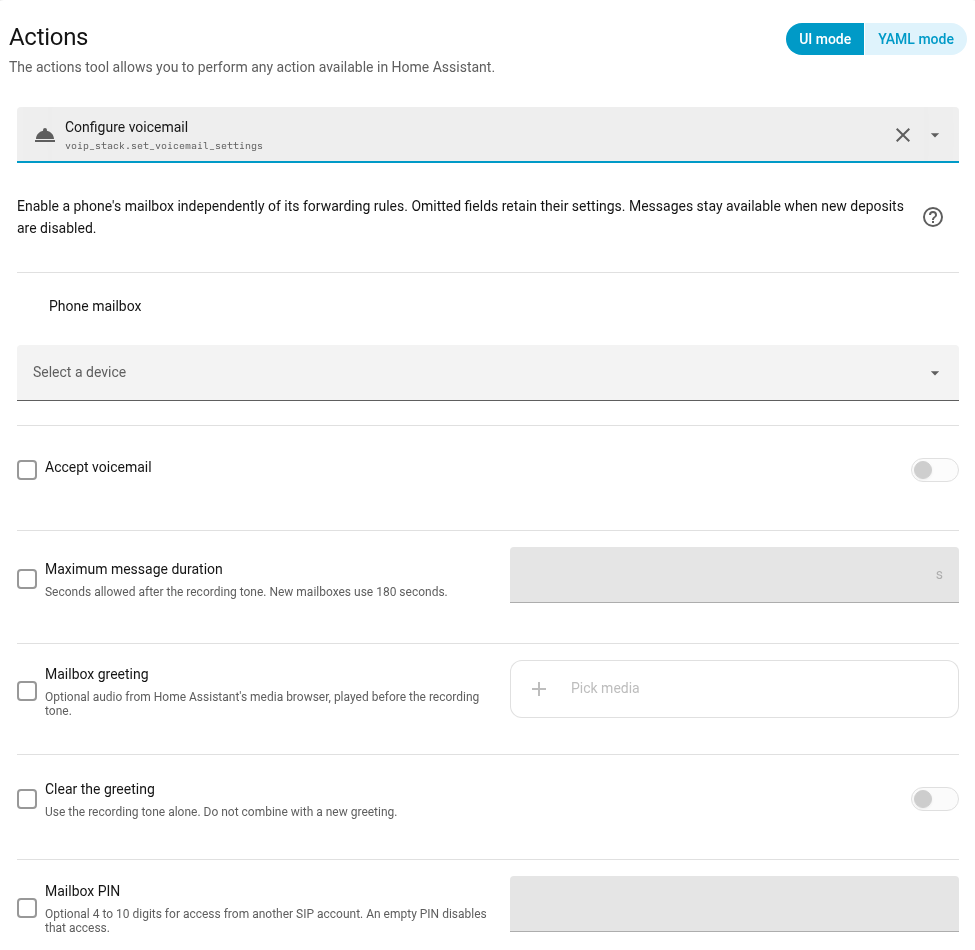
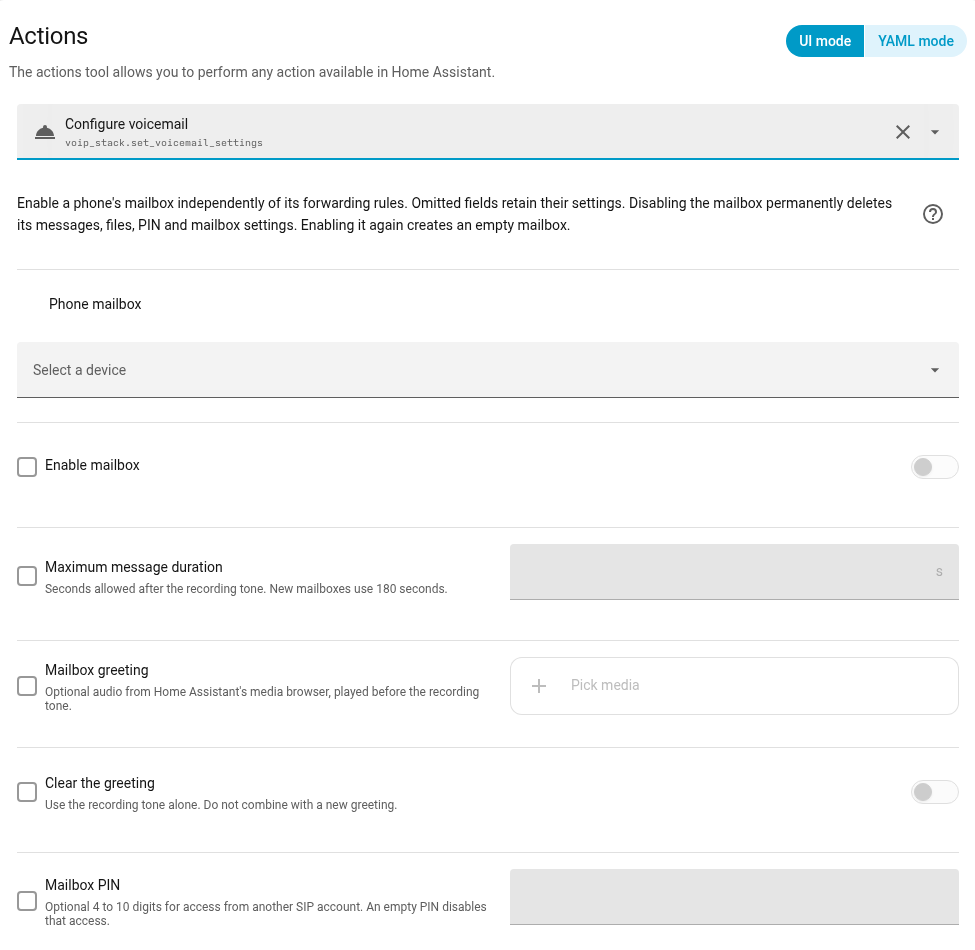
docs: align mailbox lifecycle and current media capabilities

diff --git a/docs/ARCHITECTURE.md b/docs/ARCHITECTURE.md
@@ -27,7 +27,7 @@ Home Assistant is more than a card backend:
 - HA is the central phonebook/dial-plan publisher;
 - HA is a SIP router/B2BUA for logical names, numbers, bridge requests and
   transport boundaries;
-- HA can optionally register one provider/PBX trunk;
+- HA supports independently configured provider/PBX trunks, registered or static;
 - HA can optionally act as a local registrar for standard SIP endpoints such as
   Zoiper, Linphone, baresip or pjsua;
 - HA can optionally expose one native Assist pipeline as a local phonebook
@@ -76,9 +76,8 @@ second user-selectable identity and is never stored by new card configuration.
 
 ### HA runtime ownership model
 
-The PBX ownership core is built alongside the existing SIP dispatcher as a
-migration seam; it is not a second router and a call never passes through two
-independent dial plans.
+The SIP dispatcher resolves each call through one dial plan. The PBX session
+core owns its participants, media resources and termination.
 
 - `SipEndpointRuntime` owns endpoint-wide components such as listeners,
   registrar, trunk and conference manager.
@@ -176,9 +175,10 @@ of bypassing an intervening proxy.
 SDP offer/answer negotiates RTP. RTP media is always UDP, even when SIP
 signaling uses TCP.
 
-ESP devices are PCM-only endpoints. The supported ESP profile is linear PCM
-with network byte order on RTP; incompatible SDP receives `488 Not Acceptable
-Here` or the equivalent terminal reason.
+ESP firmware selects PCM or Opus at compile time. FULL and P4 profiles use
+linear PCM with network byte order on RTP; maintained ESP32-S3 VoIP-only
+profiles can use Opus. Unsupported media receives `488 Not Acceptable Here`
+or the equivalent terminal reason. See the [ESP media profile](voip_profile.md#sdp-and-rtp).
 
 HA can accept richer media on softphone/trunk legs when it has a bidirectional
 converter for the selected codec. Optional codecs are capability-gated and are
@@ -231,7 +231,7 @@ or SBC boundary.
 
 ### Telephone applications and voicemail
 
-On the PBX development branch, Automation and voicemail use
+Automation and voicemail use
 `LocalCallApplication` for answer and media setup. The existing
 `EndpointCallSession` owns their tasks, RTP reservation and termination. Changing
 from an announcement to voicemail transfers that application's control within

diff --git a/docs/voip_profile.md b/docs/voip_profile.md
@@ -148,7 +148,11 @@ capability and security boundaries.
 
 ## SDP and RTP
 
-ESP media is PCM-only.
+PCM and Opus are separate compile-time firmware choices. FULL and P4 profiles
+use PCM. Maintained ESP32-S3 VoIP-only profiles can use Opus, advertised as
+`opus/48000/2` even when the captured audio is mono. The RTP clock is 48 kHz.
+
+For PCM profiles:
 
 - Mandatory: RTP `L16`
 - Optional: RTP `L24`, only when packed as RTP L24
@@ -162,12 +166,13 @@ ESP must convert at the RTP boundary:
 - internal `S16LE` to RTP `L16` network byte order
 - internal `S24LE_IN_S32` to packed RTP `L24` network byte order
 
-Compressed codecs are not implemented on ESP. If a SIP softphone offers only
-compressed codecs such as PCMU, PCMA, Opus, Speex, GSM or G.722, ESP returns
-`488 Not Acceptable Here`.
+ESP does not implement PCMU, PCMA, Speex, GSM or G.722. A direct SIP peer must
+offer a format supported by the selected firmware. A call through HA may use
+its transcoding bridge instead. See the [component codec matrix](https://github.com/n-IA-hane/esphome-voip-stack#codec-profiles-and-media-route).
 
-ESP devices never advertise or decode video. The optional HA softphone video
-path is not routed into an ESP, ring group, conference room or Assist pipeline.
+Audio-only profiles do not advertise video. Supported P4 video profiles add
+their explicitly configured JPEG or H.264 paths; video is not automatically
+enabled for other boards. See [SIP video](SIP_VIDEO.md).
 
 ## Roster
 
@@ -181,8 +186,8 @@ Direct calls use SIP URIs such as:
 - `sip:Salotto@192.168.1.52:5060;transport=udp`
 
 Phone numbers and unresolved names route through the Home Assistant SIP bridge when
-configured. If an optional HA trunk is configured and registered, unresolved
-external targets can route through that trunk. Missing endpoint metadata must
+configured. Unresolved external targets can use the selected available HA
+trunk, either registered or static. Missing endpoint metadata must
 not invent a direct SIP route.
 
 Inbound trunk calls can use RFC2833/telephone-event DTMF digits as local

diff --git a/docs/TESTING_AND_DEBUG.md b/docs/TESTING_AND_DEBUG.md
@@ -21,8 +21,8 @@ HA integration tests with `./scripts/test_suite.sh ha`; that mode selects
 `../ha-voip-lab/.venv/bin/python`, or the interpreter supplied through
 `HA_PYTHON`. Do not invoke HA test modules with the repository `.venv`.
 
-The complete local gate also runs Ruff and parses every shipped JavaScript
-module:
+CI checks Python with Ruff. The complete local gate also parses every shipped
+JavaScript module:
 
 ```bash
 ./.venv/bin/ruff check custom_components scripts tests
@@ -42,10 +42,17 @@ local component checkouts for candidate firmware builds.
 
 The complete plan includes `software-full`, the real Home Assistant runtime,
 coverage, mutation, isolated peers, a real browser, firmware compilation and
-the selected S3/P4 hardware jobs. The maintained YAML files remain readable
-and reference the four `dev` branches. Test operators must record the resolved
-commits with the resulting evidence: a green CI run is not a physical-device
-qualification.
+the selected S3/P4 hardware jobs. Keep published references in maintained YAMLs
+unchanged and create a disposable local-source variant for candidate builds.
+Test operators must record the resolved commits with the resulting evidence:
+a green CI run is not a physical-device qualification.
+
+The browser startup regression delays worklet downloads in real Chromium and
+checks the first rendered samples after preparation, using silent virtual
+devices. A separate SIP/UDP test checks that initial PCMU frames survive an
+80 ms browser-readiness handshake. These checks cover frontend preparation and
+the RTP/WebSocket boundary; they do not qualify a physical phone's audio route
+or promise lossless playback after an arbitrarily long browser suspension.
 
 This software and compile gate still does not claim physical interoperability.
 A release candidate also needs the applicable live browser, SIP peer and ESP

diff --git a/docs/DEPLOYMENT_GUIDE.md b/docs/DEPLOYMENT_GUIDE.md
@@ -277,13 +277,14 @@ Direct mode routes the incoming call without this digit-collection step.
 
 ## Media
 
-ESP accepts compatible PCM SDP only. Unsupported codecs or oversized/unsupported
-formats must receive a SIP failure such as `488 Not Acceptable Here`.
+ESP firmware accepts the codecs compiled into its profile: PCM for FULL/P4,
+or optional Opus for ESP32-S3 VoIP-only. Unsupported codecs or oversized formats
+receive a SIP failure such as `488 Not Acceptable Here`.
 
 HA can bridge and resample between supported formats. Trunk/softphone legs may
 negotiate Opus, G.722, PCMA or PCMU when the HA runtime provides the required
 codec in both directions; optional codecs are not advertised when unavailable.
-G.722 exists only on the HA/standard-SIP leg: ESP legs remain PCM-only and keep
-their native quality. HA keeps the best negotiated quality per leg when
+G.722 exists only on the HA/standard-SIP leg; ESP legs use their configured
+PCM or Opus profile. HA keeps the best negotiated quality per leg when
 conversion is available. If a conversion cannot be built, HA terminates the
 setup with `media_incompatible`.

diff --git a/docs/VOICEMAIL.md b/docs/VOICEMAIL.md
@@ -38,10 +38,15 @@ uses HA's media picker; without one, the caller hears a recording tone.
 ![Configure a phone mailbox using named GUI fields](images/voicemail-settings-action.png)
 
 In this action, select the phone in **Phone mailbox**, enable the optional
-**Accept voicemail** field and turn its switch on. The checkboxes beside optional
+**Enable mailbox** field and turn its switch on. The checkboxes beside optional
 fields mean "change this setting"; leaving one unchecked preserves its current
 value. Choose greeting media and a message duration only if you want to change
 those settings. The screenshot is an unsubmitted form, not an active mailbox.
+
+Turning **Enable mailbox** off permanently removes that phone's mailbox,
+messages, files, PIN and mailbox settings. Turning it on again creates an empty
+mailbox. This also applies when changing the setting through an HA automation.
+It does not remove other phones' messages or separate conversation recordings.
 
 Enabling a mailbox does not enable forwarding. In the phone card's
 **Options > Call routing** section,

diff --git a/docs/SIP_TRUNK.md b/docs/SIP_TRUNK.md
@@ -344,10 +344,11 @@ mode. Automation routing stays off until explicitly enabled.
 ## Media
 
 The provider leg and local leg are separate SIP dialogs. HA bridges RTP between
-them with the same relay/resampler used for local HA bridge calls. ESP devices
-remain PCM-only and reject unsupported media with standard SIP errors. HA trunk
-and softphone legs may accept common SIP codecs such as Opus, G.722, PCMA or PCMU,
-then convert toward ESP PCM when the route requires it.
+them with the same relay/resampler used for local HA bridge calls. ESP firmware
+uses PCM or compile-time Opus according to its profile. HA trunk and softphone
+legs may accept common SIP codecs such as Opus, G.722, PCMA or PCMU, then convert
+toward the negotiated ESP format when the route requires it. Unsupported media
+is rejected with standard SIP errors.
 
 RTP packet duration is treated as a negotiated target, not an assumption about
 every received datagram. When the codec, sample rate, channel count and PCM

diff --git a/docs/BREAKING_CHANGES.md b/docs/BREAKING_CHANGES.md
@@ -4,6 +4,16 @@ Follow the entries between your installed version and the version you are
 upgrading to. Each section describes the migration for that release.
 For a fresh installation, use the [deployment guide](DEPLOYMENT_GUIDE.md).
 
+## 2026.10.3-dev: disabling a phone's mailbox deletes it
+
+**Enable mailbox** now controls whether that phone has a mailbox. Explicitly
+turning it off from the card, phone configuration or `set_voicemail_settings`
+action permanently deletes its messages, files, PIN and mailbox settings.
+Turning it on again creates an empty mailbox. Omitted action fields keep their
+current values. Updating, restarting or taking a phone offline does not delete
+mailboxes, including mailboxes disabled by an older build. Separate conversation
+recordings and other phones' mailboxes are preserved.
+
 ## PBX development branch: separate SIP trunk entries
 
 The updated `v2026.10.3-dev` preview changes where trunks are configured.

diff --git a/CHANGELOG.md b/CHANGELOG.md
@@ -4,6 +4,19 @@
 
 Development preview with changes since stable 2026.10.1.
 
+### 🔧 Storage and configuration corrections
+
+- Release completed recording resources even when the final disk-usage scan
+  fails. Keep saved messages accessible and reconcile the storage quota before
+  accepting a new recording.
+- Make **Enable mailbox** control the existence of one phone's mailbox.
+  Disabling it deletes its messages, files, PIN and mailbox settings; enabling
+  it again creates an empty mailbox. Other mailboxes and call recordings remain.
+- Transfer RTP port-release ownership inside the existing relay splice and
+  restore the original relays if reservation preparation fails.
+- Correct outdated single-trunk, PCM-only and REGISTER requirements in current
+  guides. Add Python lint checks to CI and clarify fixture imports.
+
 ### Czech localization
 
 - Add Czech integration strings and Assist commands contributed by

diff --git a/docs/troubleshooting.md b/docs/troubleshooting.md
@@ -251,9 +251,10 @@ as `16000:s16le:1:16`, `16000:s16le:1:32`, `16000:s16le:1:20`, or
 `48000:s16le:1:10`. A call also needs one common packet time across the selected
 TX and RX directions; rates may differ, but `frame_ms`/`ptime` must match.
 
-ESP devices are PCM-only. HA softphone/trunk legs can negotiate common VoIP
-codecs where supported, but the bridge must still be able to convert the ESP
-leg to a compatible PCM format.
+Check the ESP firmware codec: FULL and P4 profiles use PCM; ESP32-S3 VoIP-only
+profiles can use Opus. HA softphone/trunk legs can negotiate additional codecs,
+but the bridge must support conversion to the format actually selected by the
+ESP. PCM and Opus are separate firmware choices.
 
 ## HA cannot route a name
 

diff --git a/docs/PBX_WORKFLOWS.md b/docs/PBX_WORKFLOWS.md
@@ -101,7 +101,8 @@ entity, language and, when offered, voice for the spoken menus. Then enable
 **Enable this phone's mailbox** in the desired phone card's Options. This also
 works for an ESP mirror card. Messages are stored on HA, not in the ESP's flash.
 Enabling the mailbox alone does not redirect unanswered calls: configure the
-no-answer rule separately.
+no-answer rule separately. Disabling **Enable this phone's mailbox** permanently
+deletes that mailbox, its messages, PIN and settings. Re-enabling starts empty.
 
 On an HA softphone, **Voicemail** appears when messages exist. Open it to see the
 caller and date, select a message to listen, or use Delete for that message.

diff --git a/docs/PHONEBOOK_PROTOCOL.md b/docs/PHONEBOOK_PROTOCOL.md
@@ -241,7 +241,8 @@ HA-router calls:
 - local HA target rings the HA softphone;
 - ESP targets forward to their SIP URI/host;
 - local SIP endpoints forward to their registered Contact while registered;
-- phone/external numbers use the trunk only when the trunk is registered;
+- phone/external numbers use the selected available trunk; registered trunks
+  require a usable registration, while static trunks do not send REGISTER;
 - disabled entries reject with a SIP terminal reason.
 
 Inbound trunk calls:
